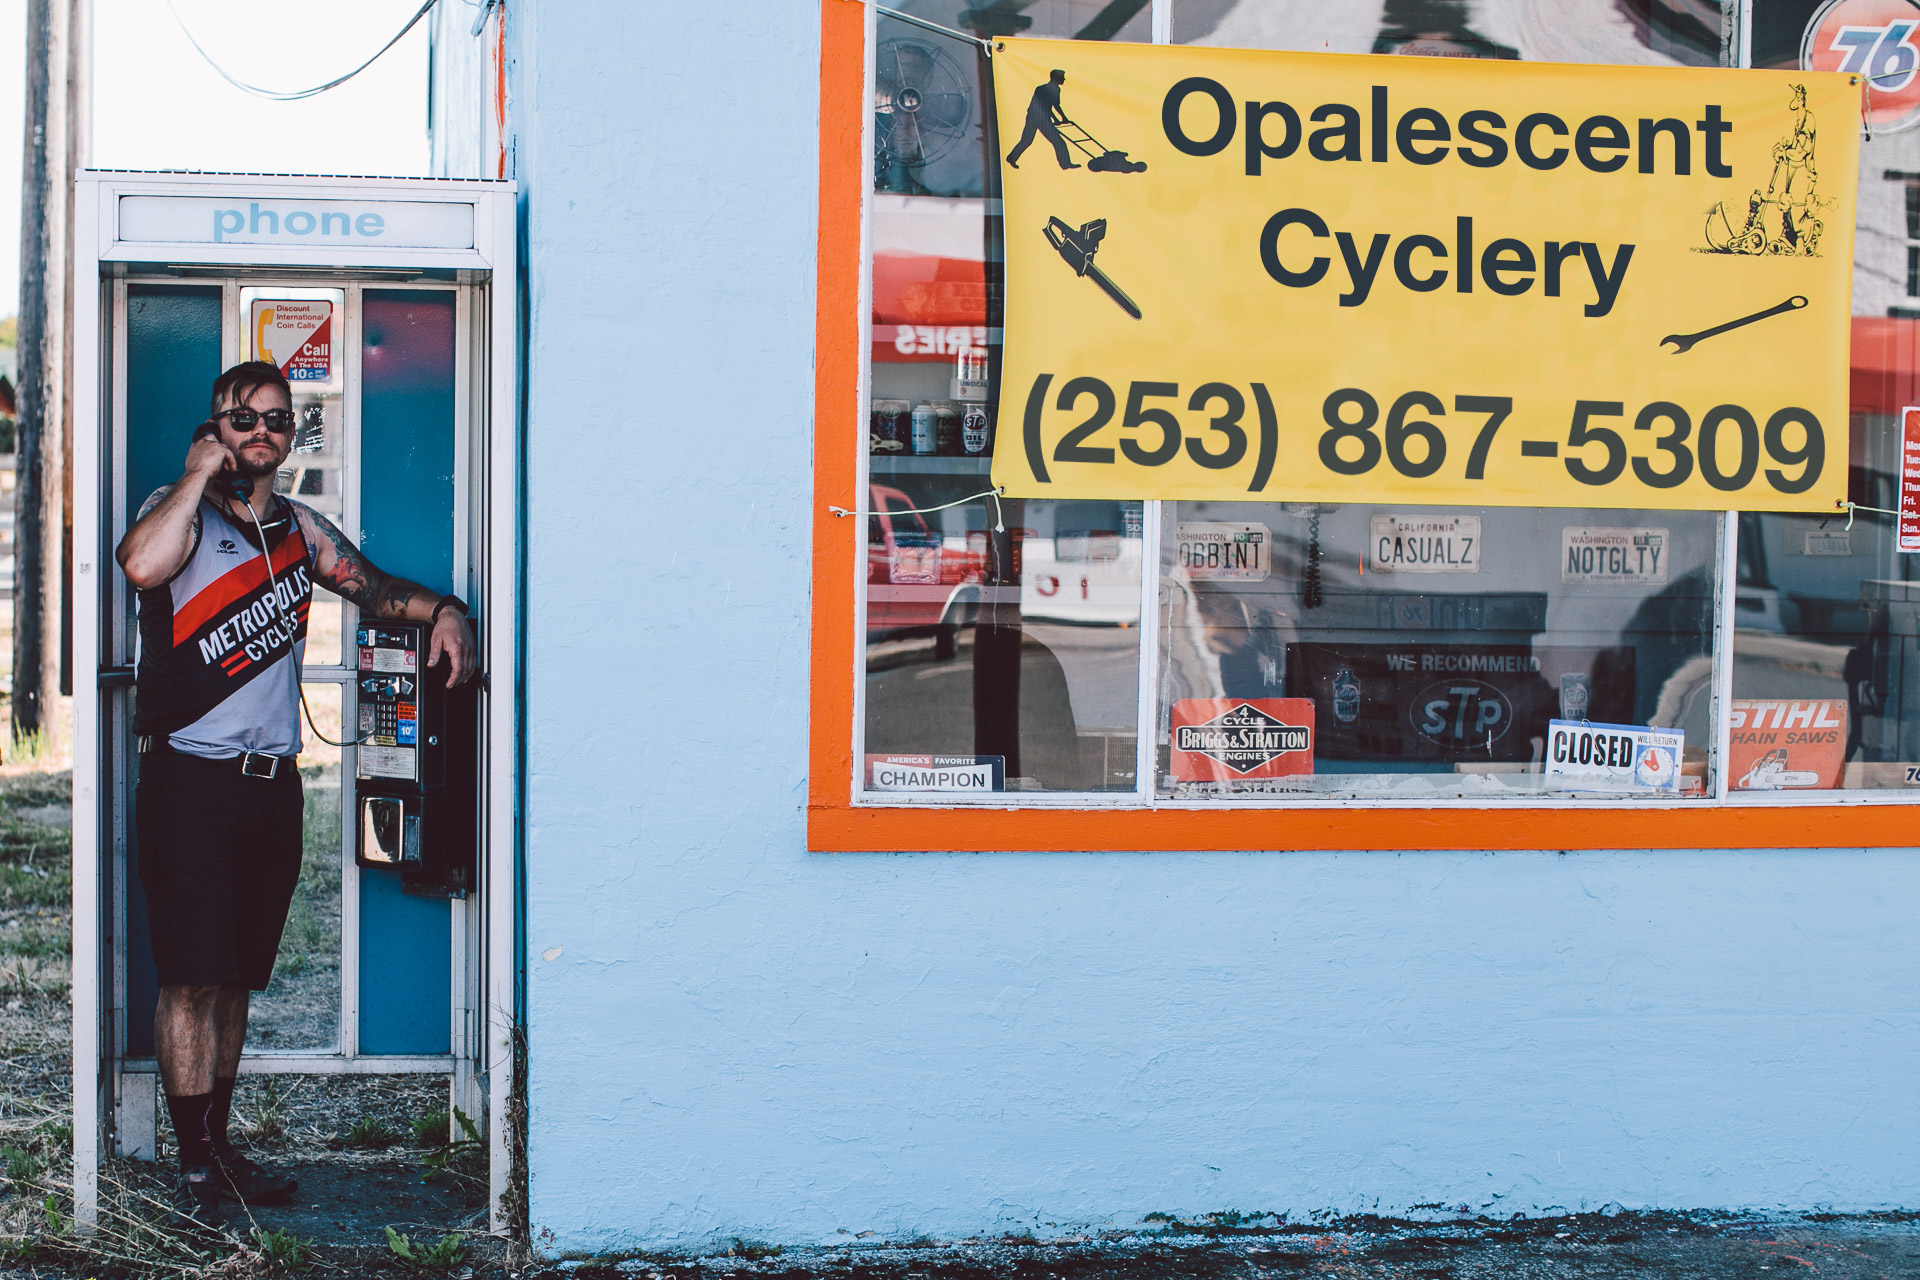
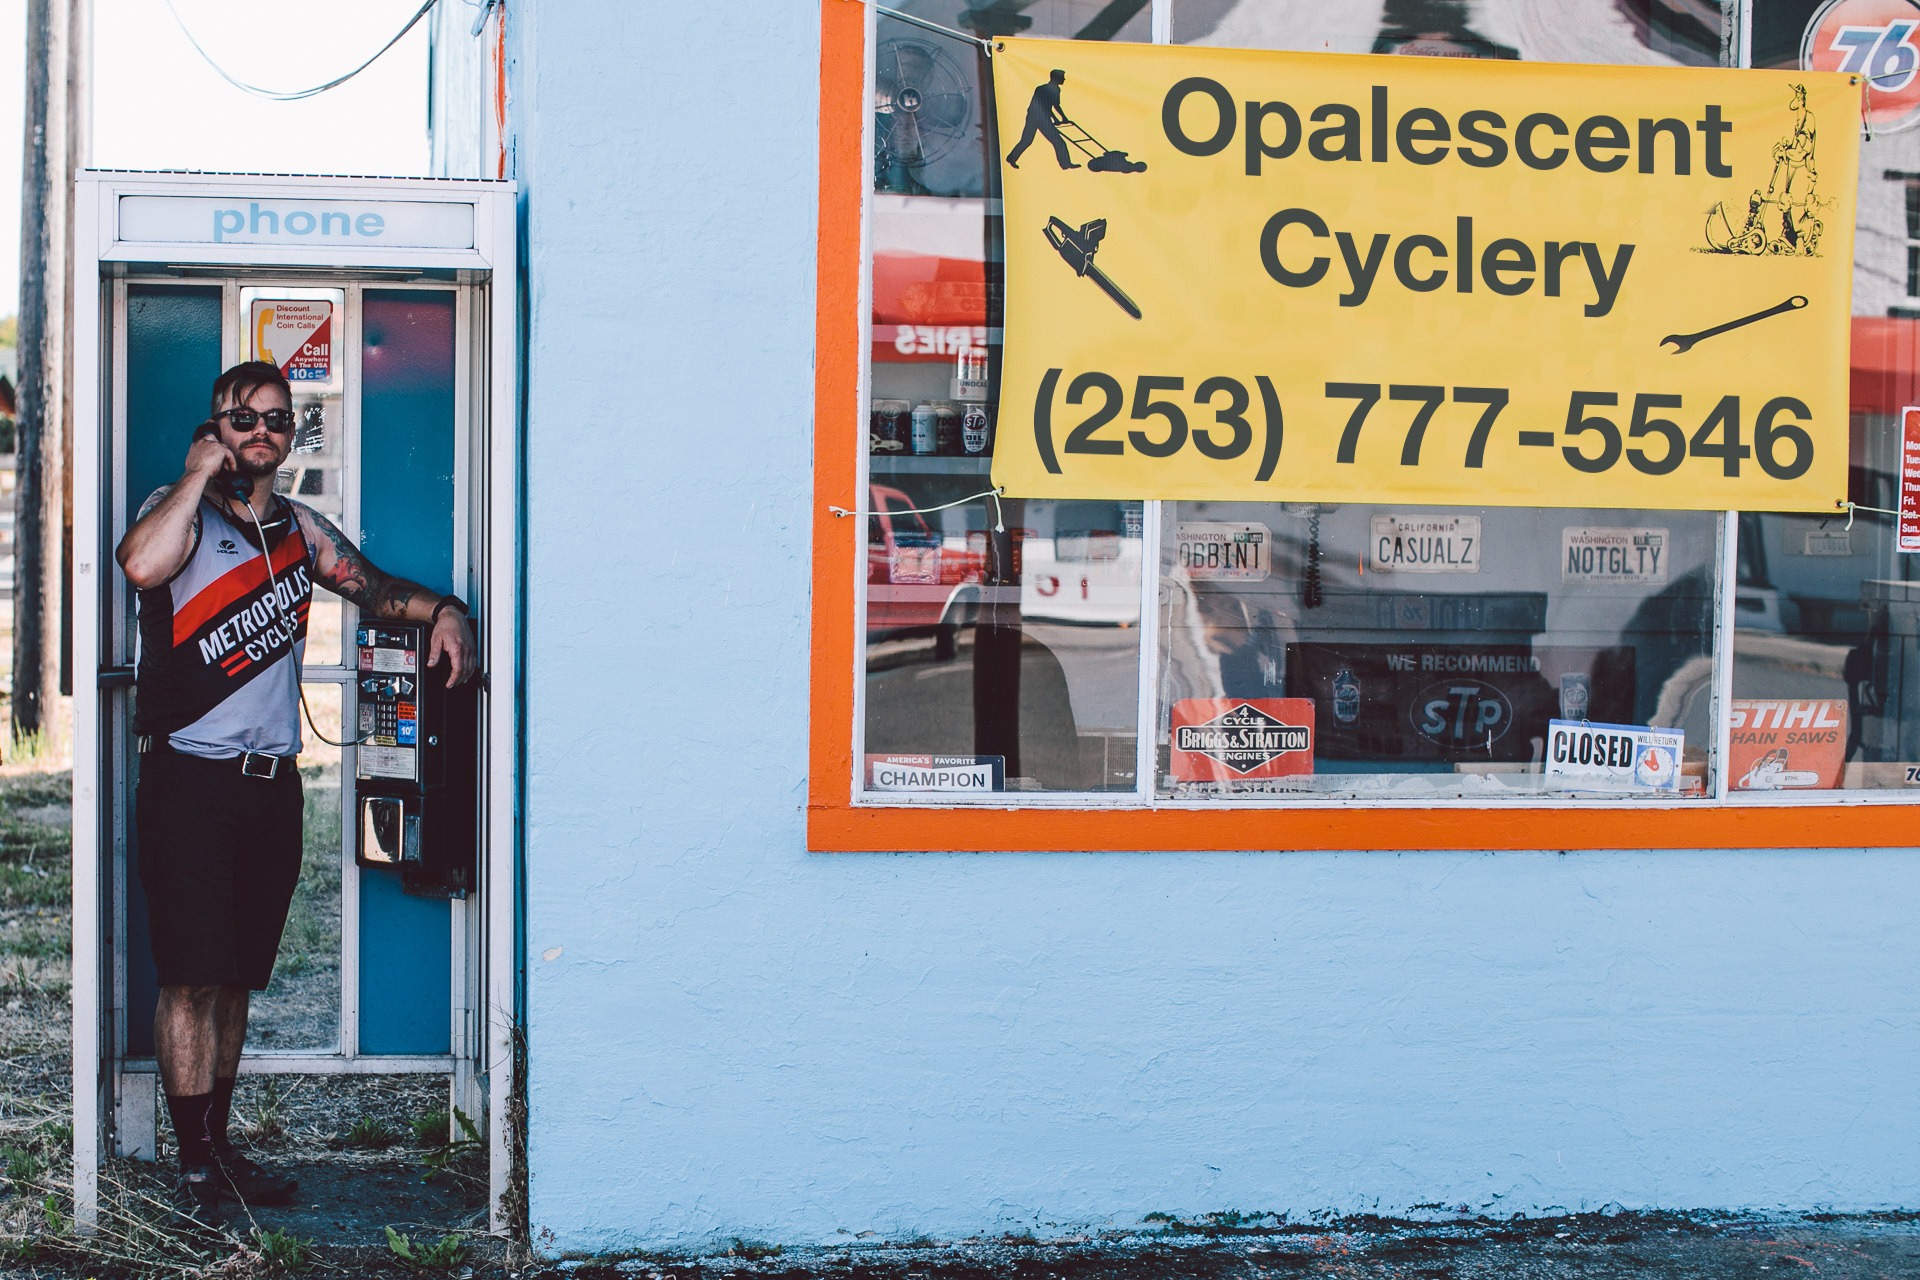
Updated telephone

diff --git a/index.html b/index.html
@@ -74,7 +74,7 @@
             <!-- Telephone Link -->
             <!-- change number after 'href="tel:' to change what number gets called  -->
             <!-- change content between > & < to change what displays -->
-            <a href="tel:2538675309">(253) 867-5309</a>
+            <a href="tel:2537775546">(253) 777-5546</a>
 
             <!-- Email Link -->
             <!-- change email after 'href="mailto:' to change what email opens  -->
